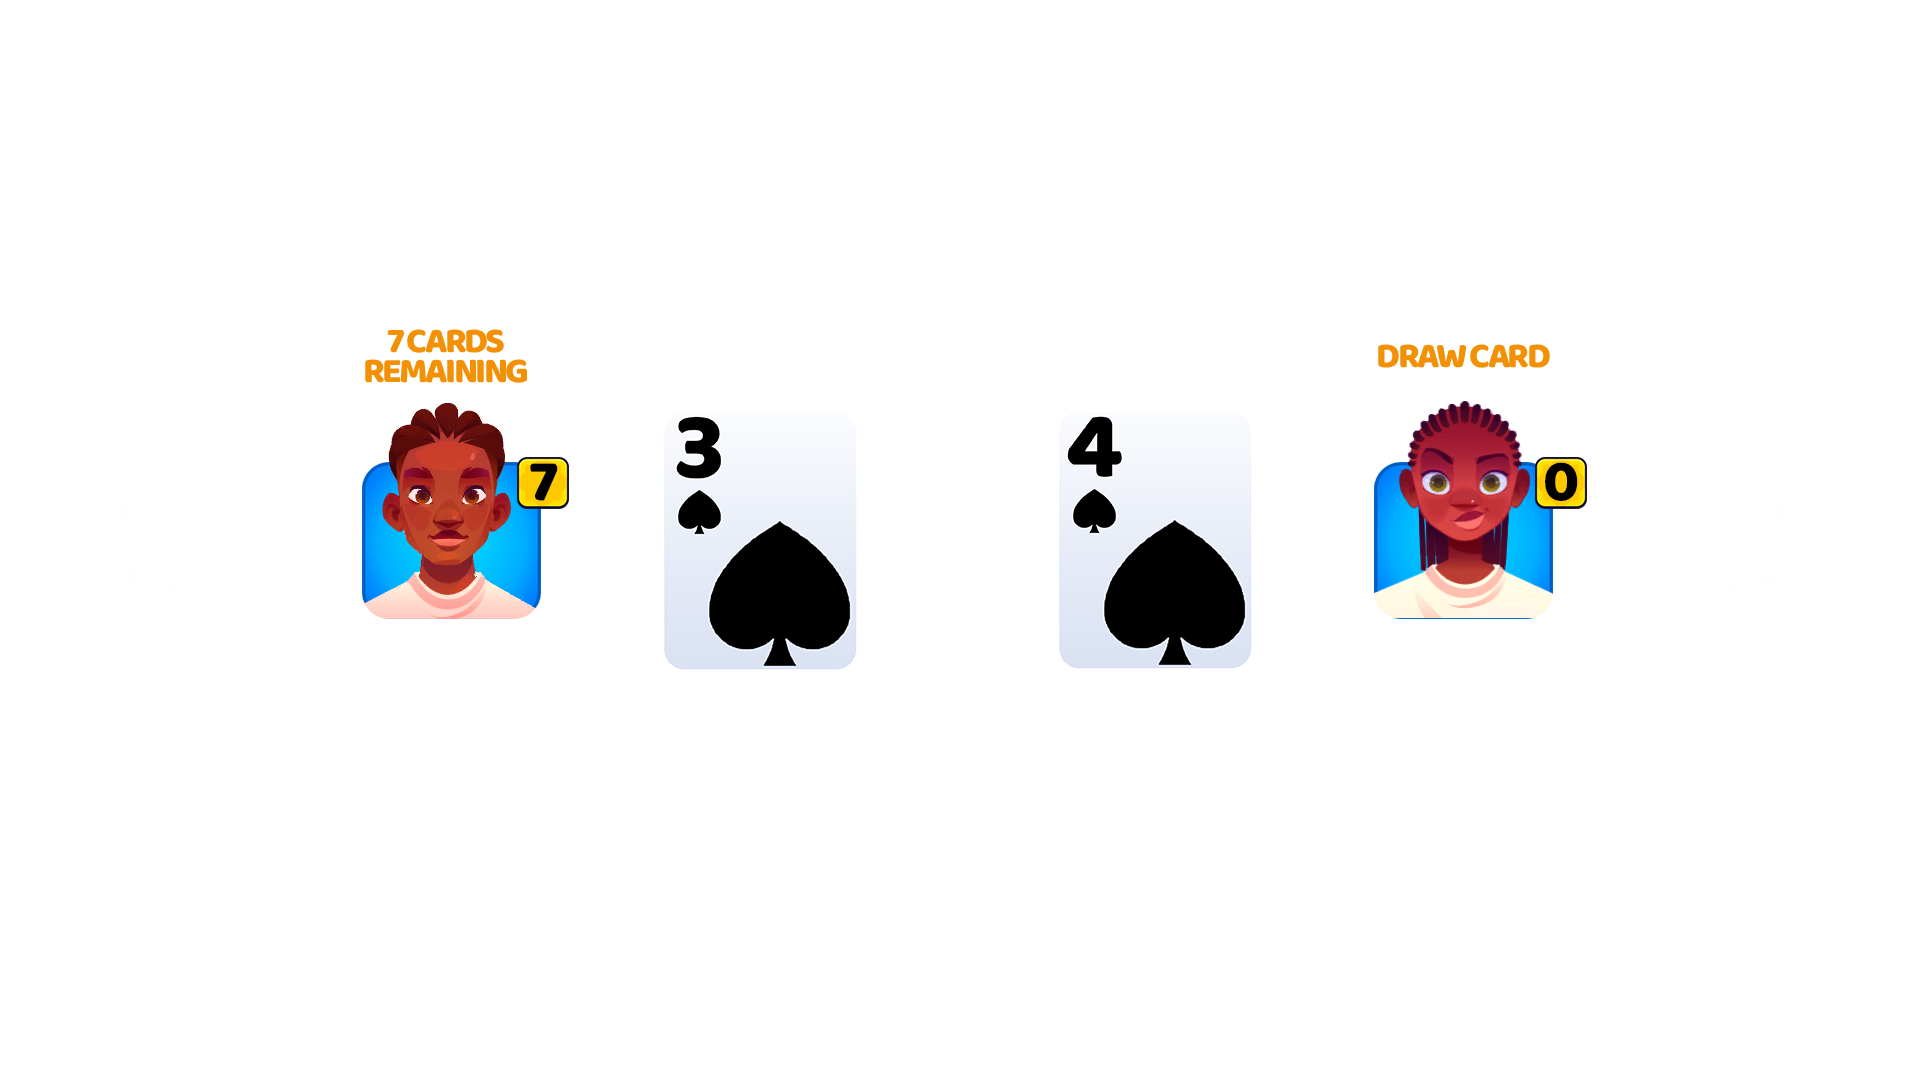
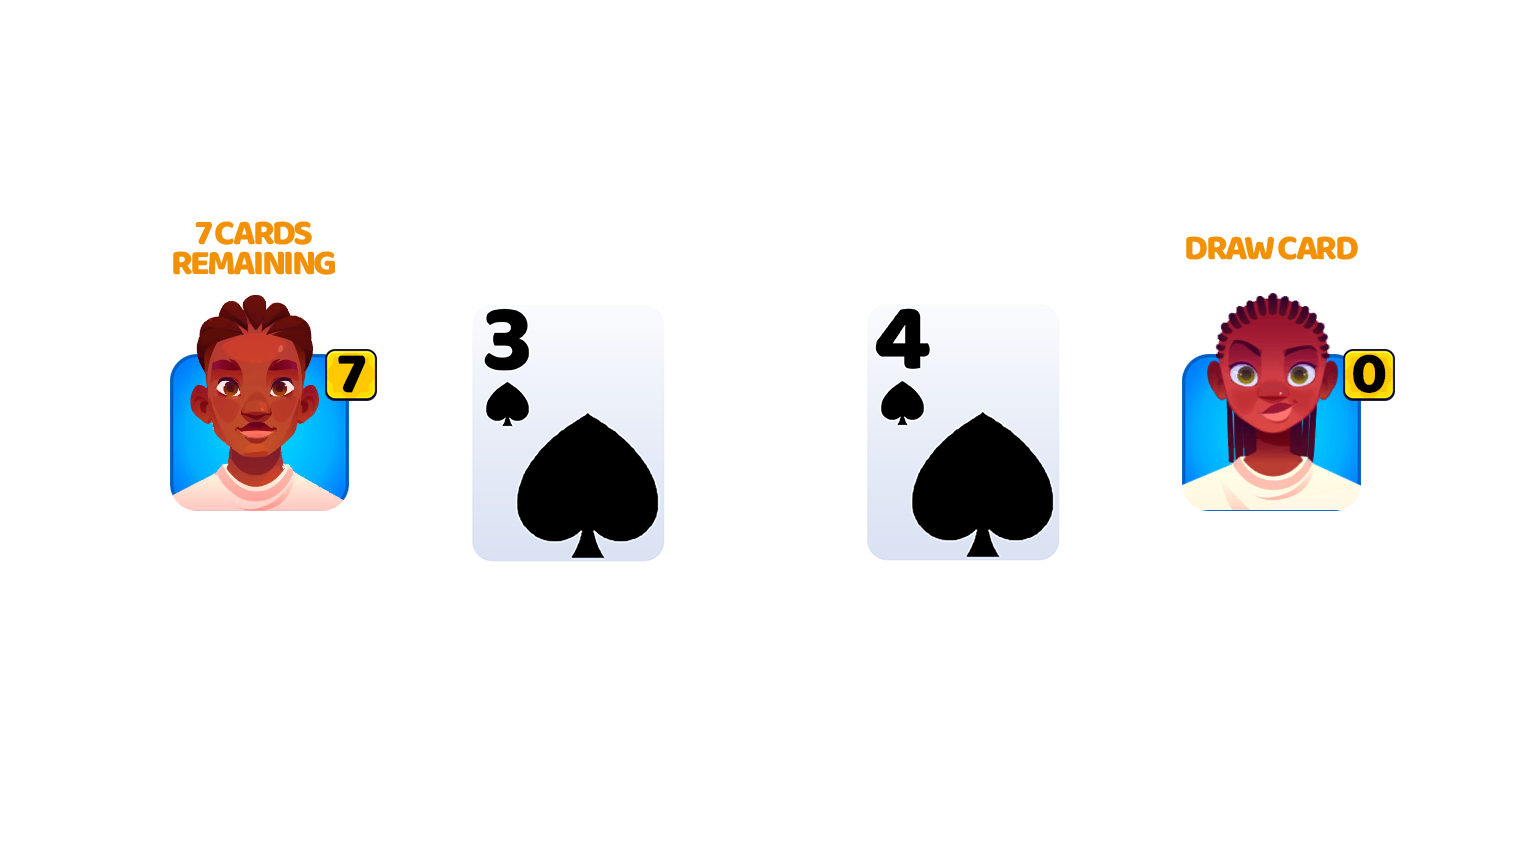
feat: Refactor game rules to an image-based tutorial carousel and remove unused SVG assets.

Changed region(s): [[0.0938, 0.25, 0.4688, 0.6562], [0.5312, 0.25, 0.9062, 0.6562]]

diff --git a/components/marketing/GameRules.jsx b/components/marketing/GameRules.jsx
@@ -3,146 +3,62 @@
 import React, { useState } from "react";
 import { motion, AnimatePresence } from "framer-motion";
 
-const RULES = [
-  {
-    player1: { title: "7 CARDS REMAINING", badge: 7,  avatar: "/ui/Avatar%20boy.png" },
-    player2: { title: "DRAW CARD",          badge: 0,  avatar: "/ui/avatar%20girl.png" },
-    cards: [
-      { value: "3", suit: "♠", red: false },
-      { value: "4", suit: "♠", red: false },
-    ],
-    rule: "WHEN DRAW A CARD, THE OPPONENT MUST HAVE ATLEAST 2 CARDS IN THIER HAND",
-  },
-  {
-    player1: { title: "PLAY ANY CARD",  badge: 5, avatar: "/ui/avatar%20girl.png" },
-    player2: { title: "THULLA CHANCE", badge: 3, avatar: "/ui/Avatar%20boy.png" },
-    cards: [{ value: "A", suit: "♥", red: true }],
-    rule: "PLAYING AN ACE FORCES THE NEXT PLAYER TO DRAW 4 CARDS UNLESS THEY ALSO HAVE AN ACE",
-  },
-  {
-    player1: { title: "LAST CARD", badge: 1, avatar: "/ui/Avatar%20boy.png" },
-    player2: { title: "CHALLENGE",  badge: 8, avatar: "/ui/avatar%20girl.png" },
-    cards: [
-      { value: "K", suit: "♦", red: true },
-      { value: "Q", suit: "♦", red: true },
-    ],
-    rule: "THE PLAYER WITH THE MOST CARDS AT THE END IS THE BHABHI AND LOSES THE ROUND",
-  },
-];
-
-const PlayerAvatar = ({ title, badge, avatar }) => (
-  <div className="flex flex-col items-center gap-1.5 flex-shrink-0">
-    <span
-      className="text-accent-yellow font-black uppercase text-center text-border-black
-                 text-[0.55rem] sm:text-[0.68rem] lg:text-[0.82rem]
-                 w-[70px] sm:w-[100px] lg:w-[130px]"
-      style={{ lineHeight: 1.2 }}
-    >
-      {title}
-    </span>
-    <div className="relative">
-      <div
-        className="w-[64px] h-[78px] sm:w-[88px] sm:h-[108px] lg:w-[120px] lg:h-[146px] relative overflow-hidden rounded-[12px] flex items-end justify-center"
-        style={{
-          background: "linear-gradient(180deg,#1da1f2 0%,#0d59a5 100%)",
-          border: "3px solid #0a74d2",
-          boxShadow: "0 4px 0 rgba(10,116,210,0.5)",
-        }}
-      >
-        <img src={avatar} alt="Avatar" className="w-[110%] h-[110%] object-contain object-bottom translate-y-[5%]" />
-      </div>
-      <div
-        className="absolute top-[26%] flex items-center justify-center
-                   w-6 h-6 sm:w-[30px] sm:h-[30px] lg:w-[36px] lg:h-[36px]
-                   -right-3 sm:-right-[15px] lg:-right-[18px]"
-      >
-        <img src="/ui/ItemFrame%20Single_Yellow.png" alt="Badge" className="absolute inset-0 w-full h-full object-contain drop-shadow" />
-        <span className="relative z-10 text-black font-black leading-none text-[12px] sm:text-[14px] lg:text-[18px] mt-[1px]">
-          {badge}
-        </span>
-      </div>
-    </div>
-  </div>
-);
-
-const PlayingCard = ({ value, suit, red }) => (
-  <motion.div
-    whileHover={{ y: -5, scale: 1.04 }}
-    className="flex-shrink-0 bg-white relative flex items-center justify-center
-               w-[68px] h-[92px] rounded-[7px] mx-[3px]
-               sm:w-[96px] sm:h-[130px] sm:rounded-[9px] sm:mx-[5px]
-               lg:w-[136px] lg:h-[185px] lg:rounded-[12px] lg:mx-[8px]"
-    style={{
-      boxShadow: "0 8px 18px rgba(0,0,0,0.35)",
-      border: "1.5px solid #e5e7eb",
-    }}
-  >
-    <span
-      className="absolute top-[5%] left-[8%] font-black leading-none
-                 text-[1rem] sm:text-[1.3rem] lg:text-[1.7rem]"
-      style={{ color: red ? "#ef4444" : "#111" }}
-    >
-      {value}
-    </span>
-    <span
-      className="text-[2.2rem] sm:text-[3rem] lg:text-[4.2rem]"
-      style={{ color: red ? "#ef4444" : "#111", marginTop: "4%" }}
-    >
-      {suit}
-    </span>
-    <span
-      className="absolute bottom-[5%] right-[8%] font-black leading-none rotate-180
-                 text-[1rem] sm:text-[1.3rem] lg:text-[1.7rem]"
-      style={{ color: red ? "#ef4444" : "#111" }}
-    >
-      {value}
-    </span>
-  </motion.div>
-);
-
 const ArrowBtn = ({ direction, onClick }) => (
   <button
     onClick={onClick}
     className="hover:scale-110 active:scale-90 transition-transform drop-shadow-lg cursor-pointer flex-shrink-0"
     aria-label={direction === "left" ? "Previous rule" : "Next rule"}
   >
-    <img 
-      src={direction === "left" ? "/ui/arrow%20l.png" : "/ui/arrow%20r.png"} 
+    <img
+      src={direction === "left" ? "/ui/arrow%20l.png" : "/ui/arrow%20r.png"}
       alt={direction === "left" ? "Previous" : "Next"}
-      className="w-8 h-8 sm:w-10 sm:h-10 lg:w-14 lg:h-14 object-contain" 
+      className="w-8 h-8 sm:w-10 sm:h-10 lg:w-14 lg:h-14 object-contain"
     />
   </button>
 );
 
 const GameRules = () => {
   const [index, setIndex] = useState(0);
-  const rule = RULES[index];
-  const prev = () => setIndex((i) => (i - 1 + RULES.length) % RULES.length);
-  const next = () => setIndex((i) => (i + 1) % RULES.length);
+  const tutorialImage = `/ui/tutorial ${index + 1}.png`;
+  const Rules = [1, 2, 3, 4, 5, 6, 7];
+  const prev = () => setIndex((i) => (i - 1 + 7) % 7);
+  const next = () => setIndex((i) => (i + 1) % 7);
 
   return (
-    <section id="how-to-play" className="pt-8 pb-10 sm:pb-16 lg:pb-24 px-4 flex flex-col items-center relative z-10 w-full text-center">
+    <section
+      id="how-to-play"
+      className="pt-8 pb-10 sm:pb-16 lg:pb-24 px-4 flex flex-col items-center relative z-10 w-full text-center"
+    >
       <div className="mb-6 lg:mb-14 flex justify-center w-[200px] sm:w-[280px] lg:w-[380px]">
-        <img src="/ui/game%20rules.png" alt="Game Rules" className="w-full h-auto object-contain drop-shadow-xl" />
+        <img
+          src="/ui/game%20rules.png"
+          alt="Game Rules"
+          className="w-full h-auto object-contain drop-shadow-xl"
+        />
       </div>
 
-      <div className="relative w-full px-10 sm:px-14 lg:px-16 max-w-[760px]">
+      <div className="relative w-full px-10 sm:px-14 lg:px-16 max-w-[1050px]">
         <div className="absolute left-0 top-1/2 -translate-y-1/2 z-10">
           <ArrowBtn direction="left" onClick={prev} />
         </div>
 
+        {/* Carousel Content */}
         <AnimatePresence mode="wait">
           <motion.div
             key={index}
-            initial={{ opacity: 0, x: 20 }} animate={{ opacity: 1, x: 0 }} exit={{ opacity: 0, x: -20 }}
+            initial={{ opacity: 0, x: 20 }}
+            animate={{ opacity: 1, x: 0 }}
+            exit={{ opacity: 0, x: -20 }}
             transition={{ duration: 0.25 }}
-            className="flex items-center justify-between gap-2 sm:gap-4"
+            className="flex items-center justify-center p-2"
           >
-            <PlayerAvatar title={rule.player1.title} badge={rule.player1.badge} avatar={rule.player1.avatar} />
-            <div className="flex items-center justify-center flex-shrink-0">
-              {rule.cards.map((c) => <PlayingCard key={c.value + c.suit} value={c.value} suit={c.suit} red={c.red} />)}
+            <div className="relative w-full max-w-[850px]">
+              <img
+                src={tutorialImage}
+                alt={`Tutorial step ${index + 1}`}
+                className="w-full h-auto object-contain drop-shadow-2xl"
+              />
             </div>
-            <PlayerAvatar title={rule.player2.title} badge={rule.player2.badge} avatar={rule.player2.avatar} />
           </motion.div>
         </AnimatePresence>
 
@@ -152,14 +68,14 @@ const GameRules = () => {
       </div>
 
       {/* Dots */}
-      <div className="flex gap-2 mt-4">
-        {RULES.map((_, i) => (
+      <div className="flex gap-2 mt-6">
+        {Rules.map((_, i) => (
           <button
             key={i}
             onClick={() => setIndex(i)}
             className="rounded-full transition-all cursor-pointer h-[10px]"
             style={{
-              width:  i === index ? 24 : 10,
+              width: i === index ? 24 : 10,
               background: i === index ? "#fecb00" : "rgba(255,255,255,0.4)",
             }}
             aria-label={`Rule ${i + 1}`}
@@ -167,26 +83,12 @@ const GameRules = () => {
         ))}
       </div>
 
-      {/* Rule text */}
-      <AnimatePresence mode="wait">
-        <motion.div
-          key={index}
-          initial={{ opacity: 0, y: 8 }} animate={{ opacity: 1, y: 0 }} exit={{ opacity: 0, y: -8 }}
-          transition={{ duration: 0.25 }}
-          className="mt-6 px-2 w-[95%] max-w-[560px]"
-        >
-          <p
-            className="text-white font-black uppercase text-center drop-shadow-lg
-                       text-[0.88rem] sm:text-[1.05rem] lg:text-[1.35rem]"
-            style={{ letterSpacing: "0.02em", lineHeight: 1.4 }}
-          >
-            {rule.rule}
-          </p>
-        </motion.div>
-      </AnimatePresence>
+      {/* Rule text is intentionally omitted here because it is baked into the tutorial X.png images */}
 
-      <div className="mt-6 w-[95%] max-w-lg">
-        <button className="btn-secondary-blue">HOW TO BUY &amp; SELL?</button>
+      <div className="mt-8 w-[95%] max-w-lg">
+        <button className="btn-secondary-blue">
+          <img src="/ui/HOW%20TO%20BUY%20&%20SELL_.png" alt="HOW TO BUY & SELL?" className="h-[12px] sm:h-[16px] lg:h-[20px] object-contain drop-shadow-sm" />
+        </button>
       </div>
     </section>
   );

diff --git a/components/shared/Navbar.jsx b/components/shared/Navbar.jsx
@@ -4,10 +4,10 @@ import React from "react";
 import { cn } from "@/lib/utils";
 
 const NAV_LINKS = [
-  { name: "HOME",        href: "#home",       active: true },
-  { name: "HOW TO PLAY", href: "#how-to-play" },
-  { name: "BUY & SELL",  href: "#how-to-play" },
-  { name: "CONTACT",     href: "#contact" },
+  { name: "HOME",        href: "#home",       src: "/ui/HOME.png", active: true },
+  { name: "HOW TO PLAY", href: "#how-to-play", src: "/ui/HOW%20TO%20PLAY.png" },
+  { name: "BUY & SELL",  href: "#how-to-play", src: "/ui/BUY%20&%20SELL.png" },
+  { name: "CONTACT",     href: "#contact",    src: "/ui/CONTACT.png" },
 ];
 
 const NavLogo = () => (
@@ -25,11 +25,15 @@ const Navbar = () => (
           key={link.name}
           href={link.href}
           className={cn(
-            "font-black uppercase tracking-tight transition-colors whitespace-nowrap text-[0.6rem] sm:text-[0.85rem] lg:text-[1.1rem]",
-            link.active ? "text-accent-yellow" : "text-white hover:text-accent-yellow"
+            "transition-transform hover:scale-105 active:scale-95 px-1 sm:px-2 flex items-center justify-center"
           )}
         >
-          {link.name}
+          <img 
+            src={link.src} 
+            alt={link.name} 
+            className="h-[10px] sm:h-[13px] lg:h-[16px] object-contain drop-shadow-md" 
+            style={{ filter: link.active ? 'drop-shadow(0 2px 4px rgba(254,203,0,0.4))' : 'brightness(0.9) hover:brightness(1.1)' }}
+          />
         </a>
       ))}
     </div>

diff --git a/components/marketing/Hero.jsx b/components/marketing/Hero.jsx
@@ -63,16 +63,12 @@ const Hero = () => {
         >
           <HeroLogo />
 
-          <div className="mt-4 mb-6 sm:mb-8 space-y-1.5 max-w-[88%] sm:max-w-[420px] lg:max-w-[500px]">
-            {[
-              "Think you can hold the ace and still get away?",
-              "Can you avoid being the Bhabhi?",
-              "Thulla Expert? Let's challenge your skills!",
-            ].map((line) => (
-              <p key={line} className="font-bold text-white drop-shadow tracking-wide text-[0.82rem] sm:text-[0.95rem] lg:text-[1.2rem]">
-                {line}
-              </p>
-            ))}
+          <div className="mt-4 mb-6 sm:mb-8 flex justify-center w-[250px] sm:w-[350px] lg:w-[480px]">
+            <img 
+              src="/ui/Think%20you%20can%20hold%20the%20ace%20and%20still%20get%20away_%20Can%20you%20avoid%20be.png" 
+              alt="Think you can hold the ace and still get away? Can you avoid being the Bhabhi? Thulla Expert? Let's challenge your skills!" 
+              className="w-full h-auto object-contain drop-shadow-xl" 
+            />
           </div>
 
           <button
@@ -94,7 +90,7 @@ const Hero = () => {
               </span>
             ) : (
               <span className="flex items-center justify-center gap-2 lg:gap-3">
-                DOWNLOAD
+                <img src="/ui/DOWNLOAD.png" alt="DOWNLOAD" className="h-[14px] sm:h-[18px] lg:h-[22px] object-contain drop-shadow-sm" />
               </span>
             )}
           </button>

diff --git a/components/shared/Footer.jsx b/components/shared/Footer.jsx
@@ -63,9 +63,11 @@ const Footer = ({ className }) => (
 
       <FooterLogo />
 
-      <p className="text-white font-bold uppercase tracking-widest text-[0.5rem] sm:text-[0.65rem] lg:text-[0.82rem] mt-2 lg:mt-4">
-        ALL RIGHTS RESERVED 2026
-      </p>
+      <img 
+        src="/ui/ALL%20RIGHTS%20RESERVED%202026.png" 
+        alt="ALL RIGHTS RESERVED 2026" 
+        className="h-[8px] sm:h-[10px] lg:h-[13px] object-contain mt-2 lg:mt-4 opacity-80" 
+      />
     </div>
   </footer>
 );
